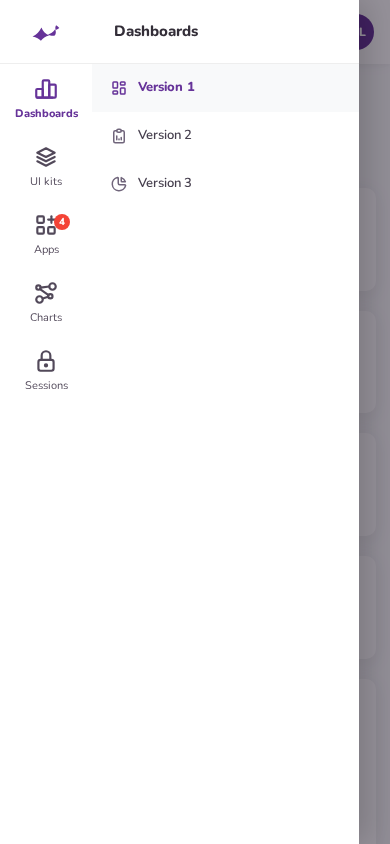
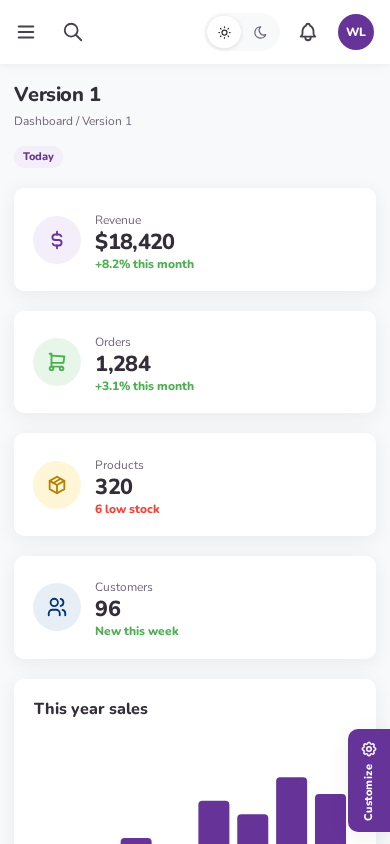
Show the phone dashboard instead of an empty menu.
The mobile screenshot now stacks the sales cards and chart, with the hamburger ready to open the menu.

diff --git a/filament-fascia-theme/index.html b/filament-fascia-theme/index.html
@@ -119,11 +119,11 @@
           </figure>
         </div>
         <figure class="device" style="width:min(300px,100%);margin:1rem auto 0">
-          <a href="javascript:void(0)" class="shot-card-preview" onclick="openLightbox('screenshots/mobile.png', 'Phone drawer', 'On a phone the hamburger opens a drawer. The rail stays, children sit beside it, and the backdrop closes it.')">
-            <img src="screenshots/mobile.png" alt="Phone drawer with the icon rail and the Dashboards secondary menu over a dimmed dashboard" width="390" height="844">
+          <a href="javascript:void(0)" class="shot-card-preview" onclick="openLightbox('screenshots/mobile.png?v=2', 'Phone dashboard', 'On a phone the dashboard stacks under a slim top bar. The hamburger opens the menu.')">
+            <img src="screenshots/mobile.png?v=2" alt="Fascia on a phone: stacked revenue, orders, products, and customers cards, with the sales chart starting below" width="390" height="844">
             <div class="shot-card-hover"><span class="shot-zoom-badge"><svg width="14" height="14" viewBox="0 0 24 24" fill="none" stroke="currentColor" stroke-width="2" aria-hidden="true"><circle cx="11" cy="11" r="8"/><line x1="21" y1="21" x2="16.65" y2="16.65"/><line x1="11" y1="8" x2="11" y2="14"/><line x1="8" y1="11" x2="14" y2="11"/></svg> Click to inspect</span></div>
           </a>
-          <figcaption>On a phone the hamburger opens a drawer. The rail stays, children sit beside it, and the backdrop closes it.</figcaption>
+          <figcaption>On a phone the dashboard stacks. The hamburger opens the menu.</figcaption>
         </figure>
       </div>
     </section>

diff --git a/filament-fascia-theme/README.md b/filament-fascia-theme/README.md
@@ -48,7 +48,7 @@ Sidebar skins match Fascia’s compact colors: light, purple, midnight, indigo, 
 </p>
 
 <p align="center">
-  <img src="screenshots/mobile.png" alt="Fascia mobile drawer" width="320">
+  <img src="screenshots/mobile.png" alt="Fascia dashboard stacked on a phone" width="320">
 </p>
 
 ## Components
